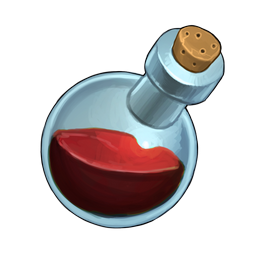
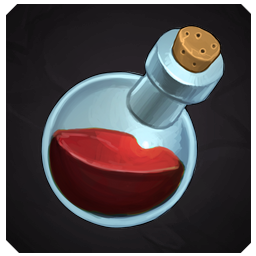
potion mit hintergrund

diff --git a/UI/Inventory/InventoryItemSlot.cs b/UI/Inventory/InventoryItemSlot.cs
@@ -32,6 +32,7 @@ public partial class InventoryItemSlot : PanelContainer,
 
     public override void _Ready()
     {
+        TextureRect         = GetNode<MarginContainer>("MarginContainer").GetNode<TextureRect>("TextureRect");
         TextureRect.Texture = DefaultIcon;
 
         PropertyChanged += (_, _) =>
